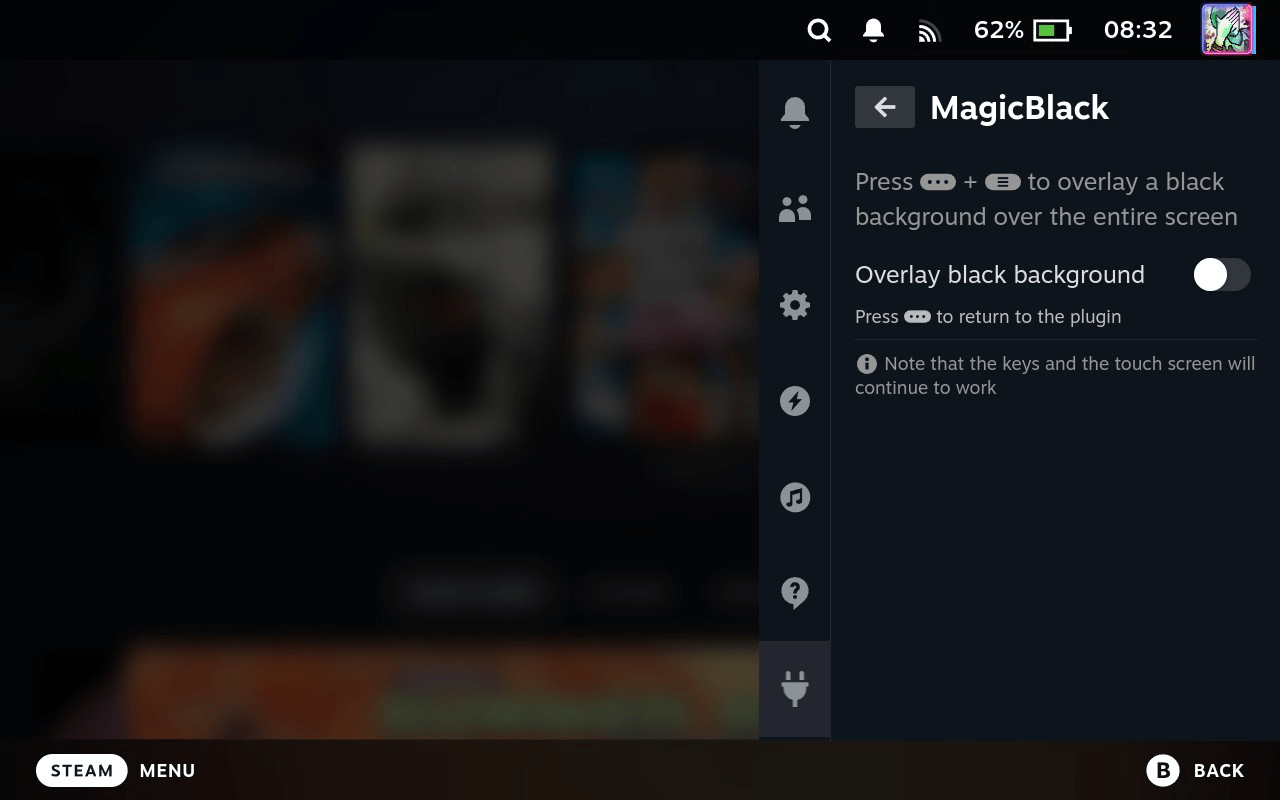
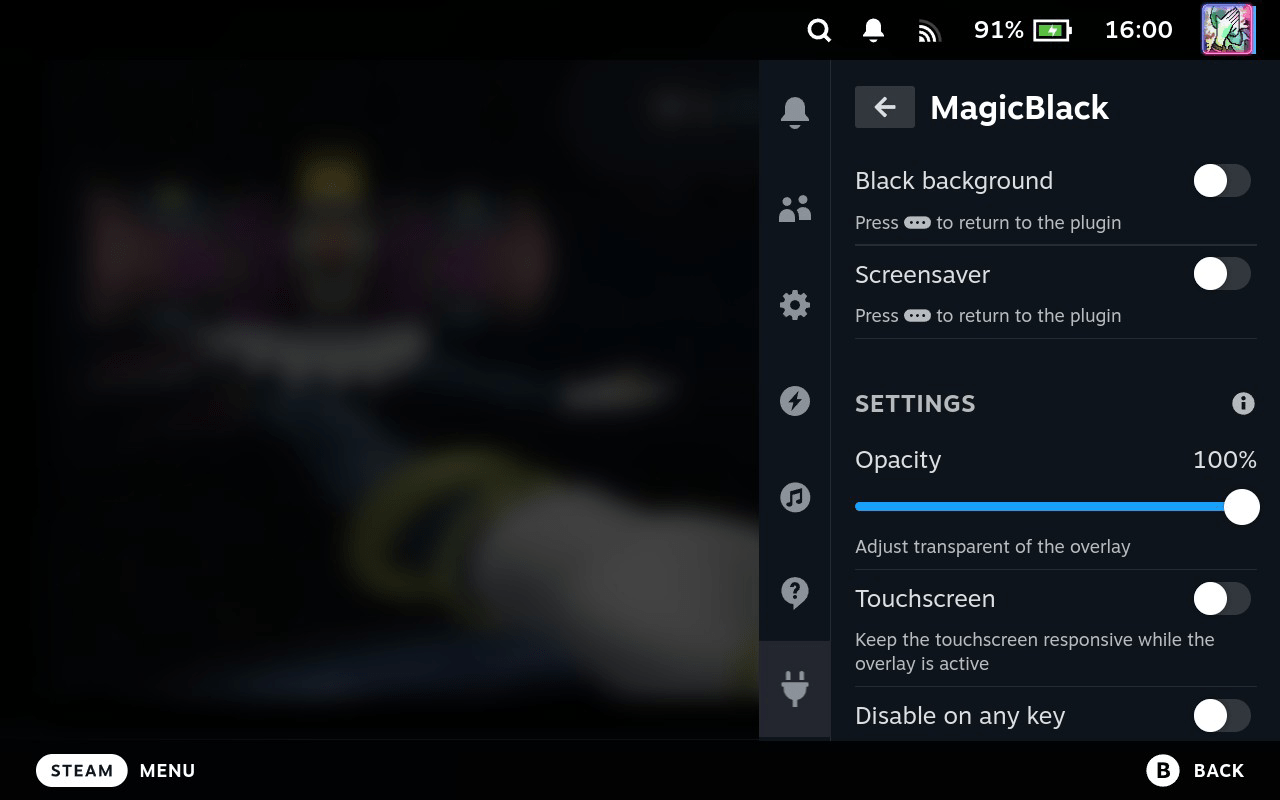
Updated readme

diff --git a/README.md b/README.md
@@ -16,6 +16,24 @@ A magic plugin for the Decky Loader that overlays the screen with black color, e
 6. Find MagicBlack in the plugin list or search for it
 7. Press the Install button
 
+
+🎨 Features
+
+- Overlay a black background
+- Adjust the opacity of the black background
+- Enable or disable the touchscreen
+- Mute or unmute the microphone and speakers
+- Close the overlay on press or wake-up
+
 ## 🚀 Getting started
 
-Now that you have MagicBlack, press <img src="./docs/images/dark/shortcut1.svg#gh-light-mode-only" height=16><img src="./docs/images/light/shortcut1.svg#gh-dark-mode-only" height=16> to overlay a black background over the entire screen.
+Now that you have MagicBlack, press <img src="./docs/images/dark/qam.svg#gh-light-mode-only" height=16><img src="./docs/images/light/qam.svg#gh-dark-mode-only" height=16> and go to <img src="./docs/images/dark/plug.svg#gh-light-mode-only" height=16><img src="./docs/images/light/plug.svg#gh-dark-mode-only" height=16> and select <img src="./docs/images/dark/mb.svg#gh-light-mode-only" height=16><img src="./docs/images/light/mb.svg#gh-dark-mode-only" height=16> MagicBlack in the installed plugins list.
+
+### Turning Off the Screen
+
+- To turn off the OLED screen, enable the `Black Background` switch — a fully black overlay will be applied to the display. On an OLED panel, each pixel emits its own light, and black means the pixel is not emitting anything, so the screen effectively turns off.
+- To bring the image back, press <img src="./docs/images/dark/qam.svg#gh-light-mode-only" height=16><img src="./docs/images/light/qam.svg#gh-dark-mode-only" height=16> to return to the plugin and disable the `Black Background` switch again.
+
+### Reducing Flicker
+
+- To reduce OLED flicker, set the screen brightness to 100%. Then enable the black background and adjust its transparency using the `Opacity` slider to find a comfortable level.
